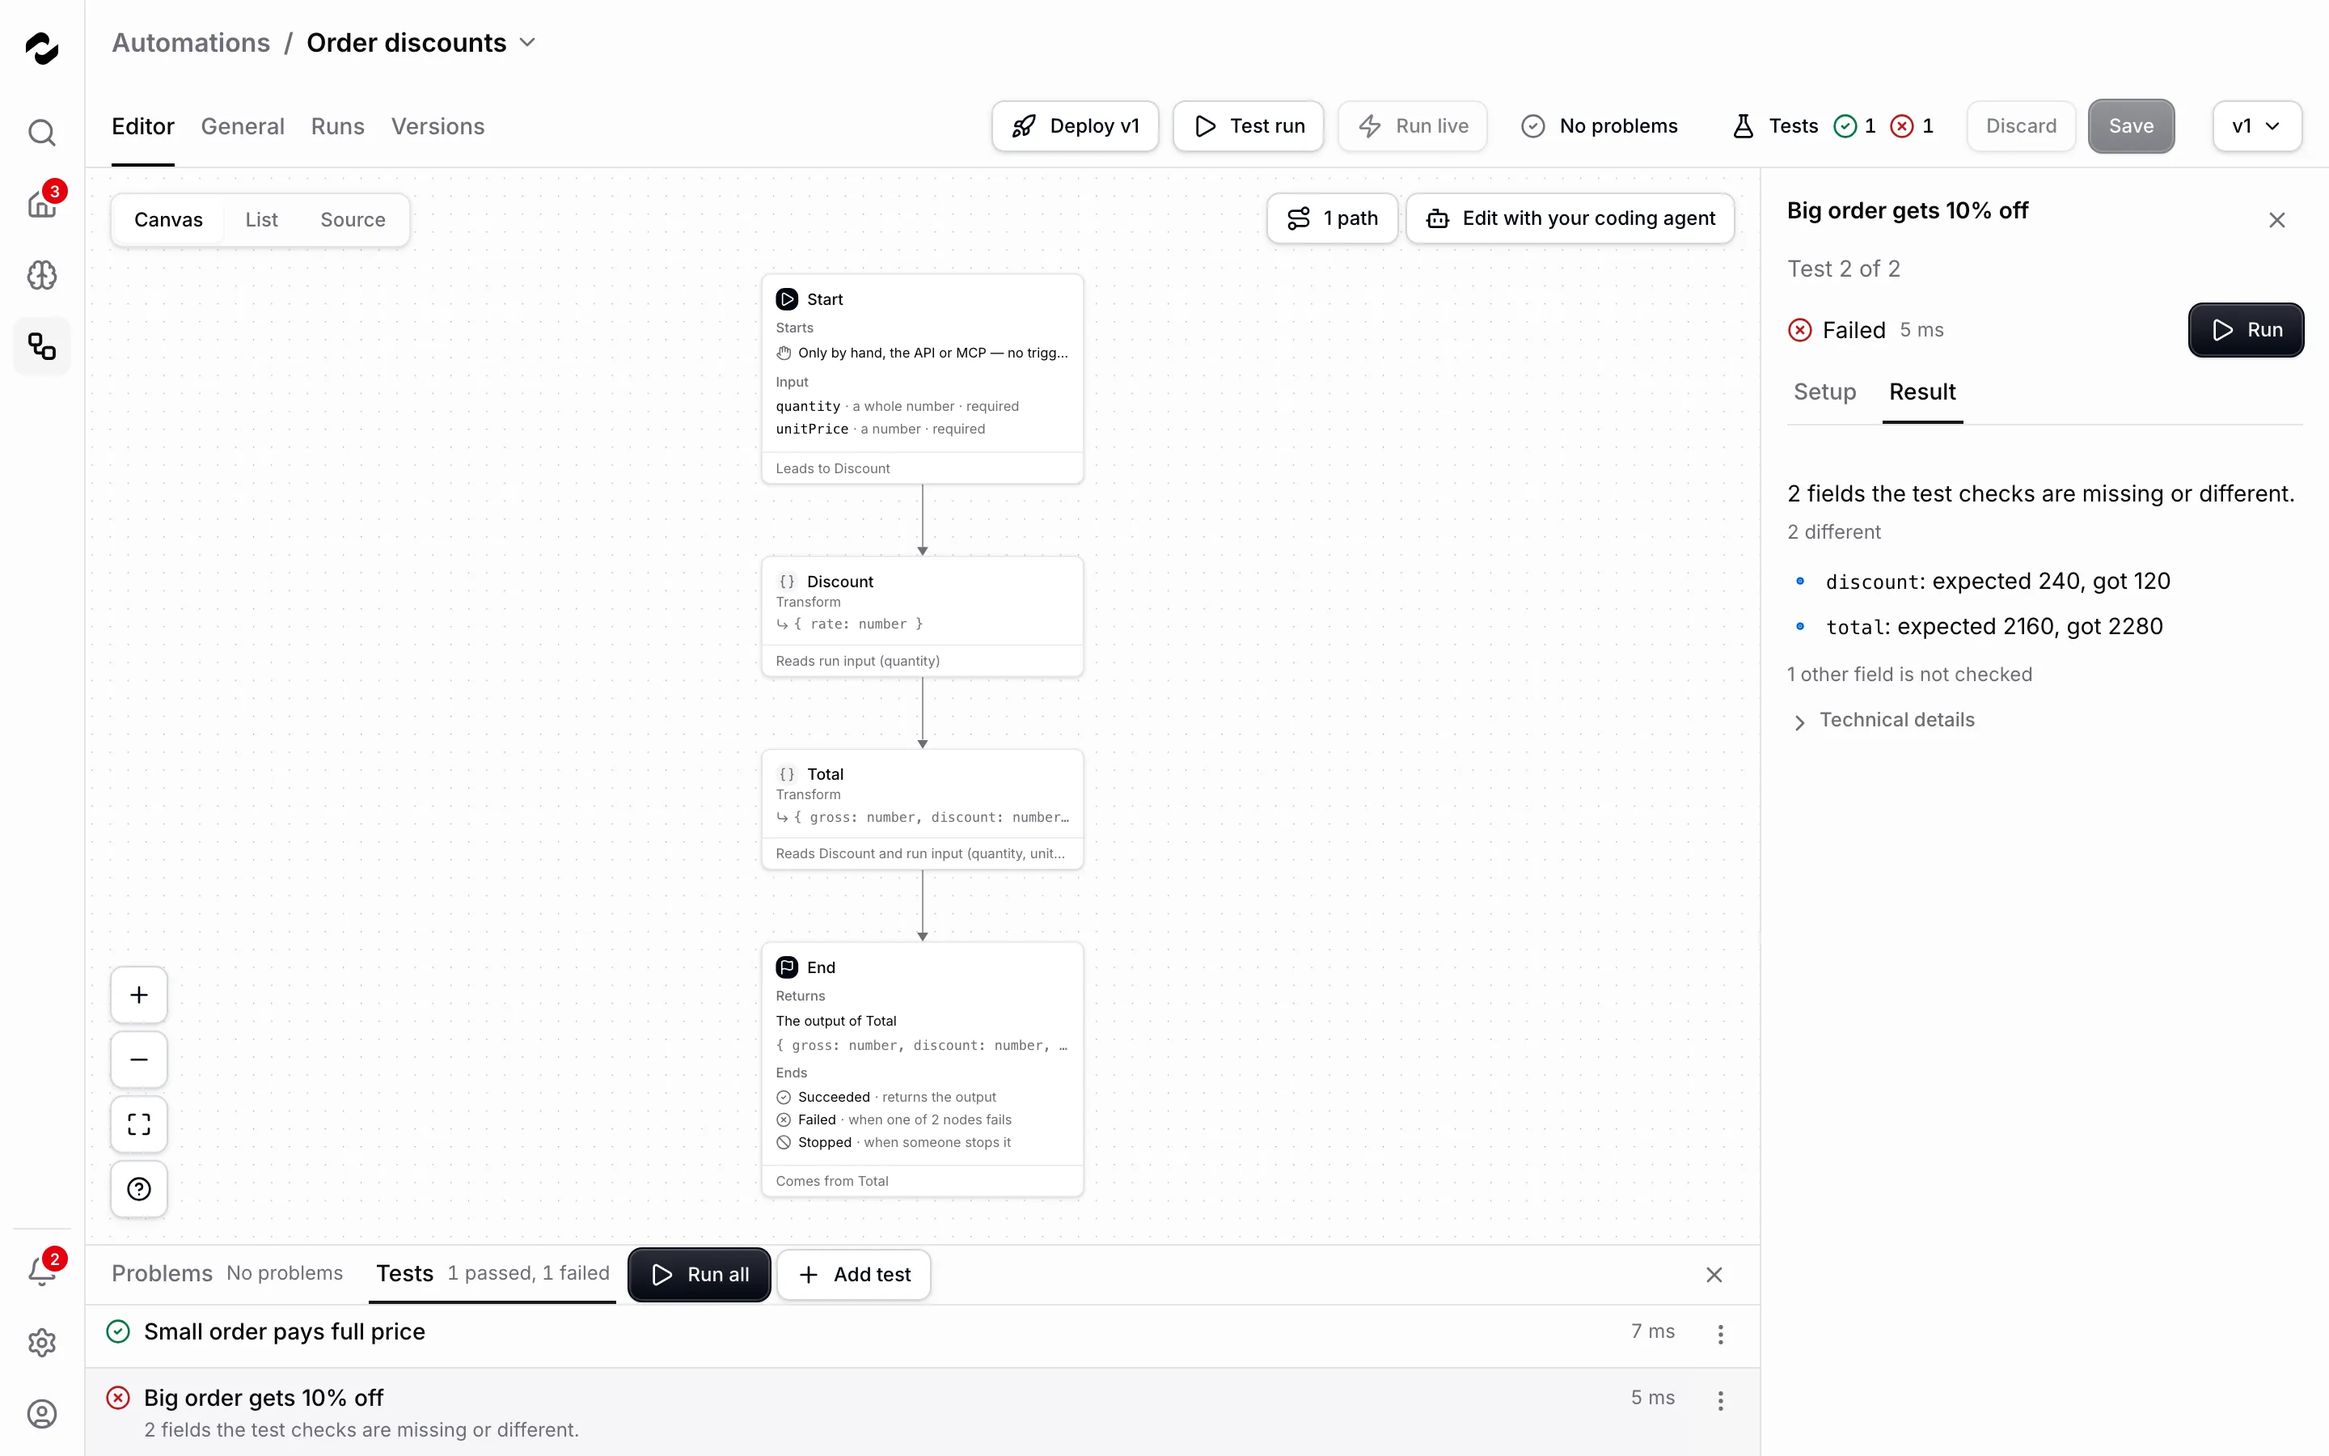
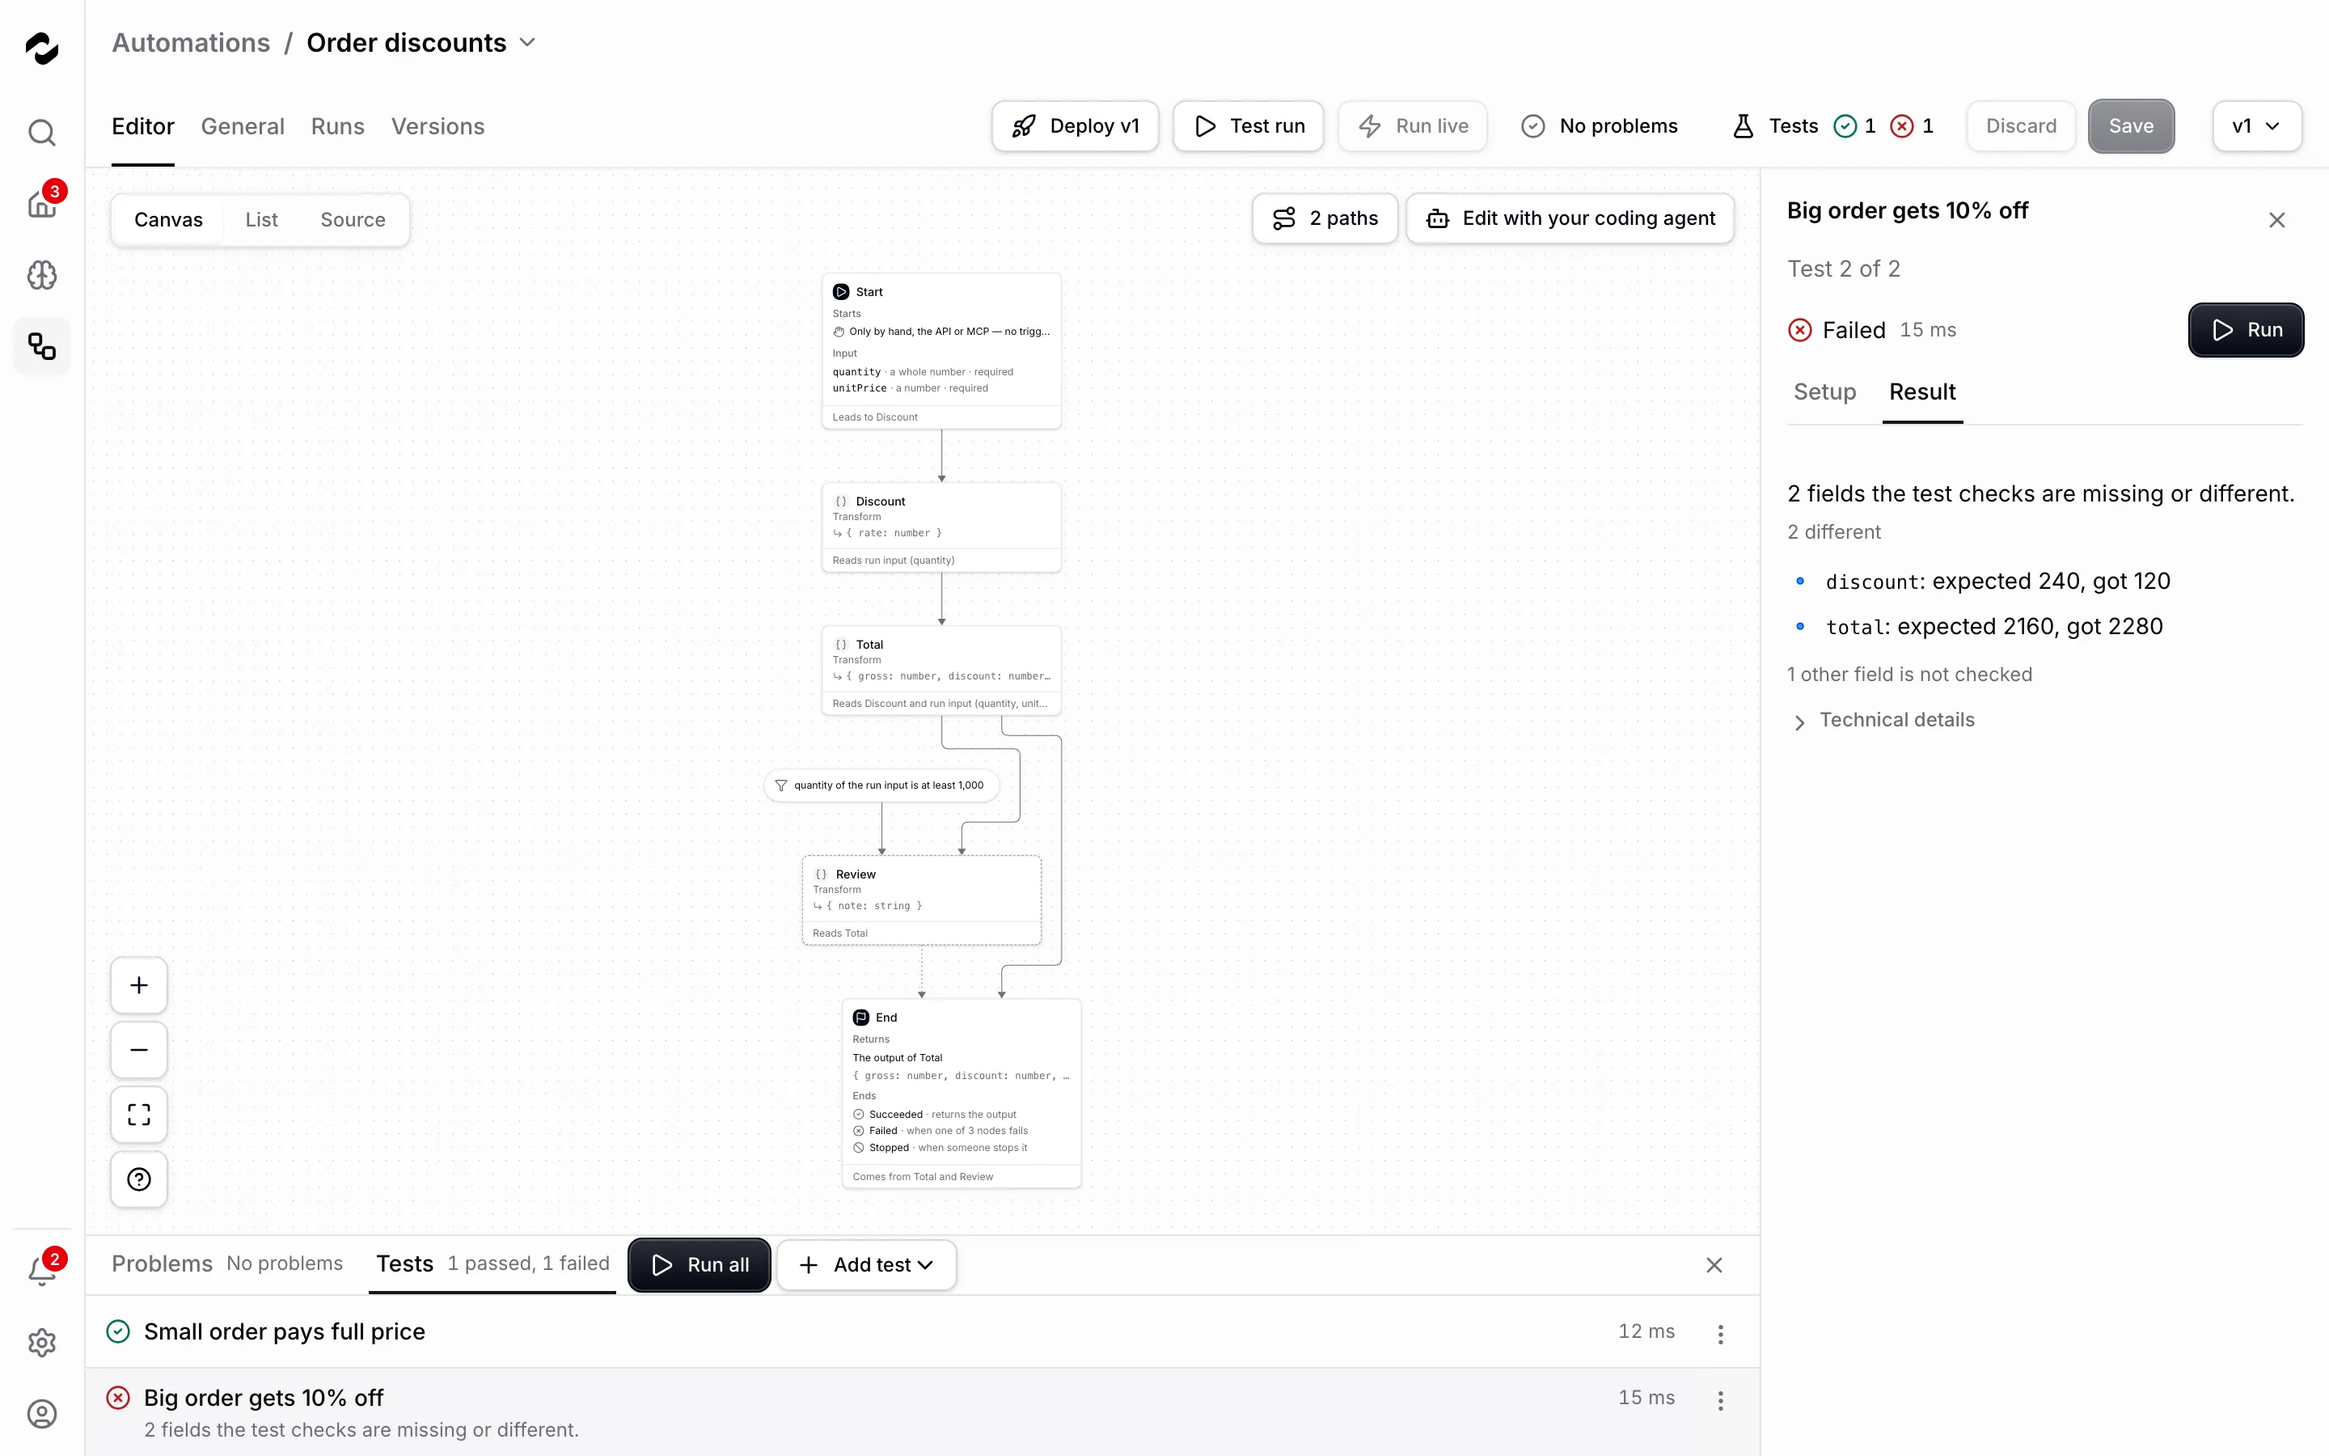
docs(docs): show tests from a path and what the tests cover
The testing page describes Add test's menu and the coverage line, with a new screenshot of the possible paths after Run all. The tests demo gains a Review step for orders of a thousand or more, which neither test reaches, so the shot shows one of two paths covered; the two earlier tests shots are taken again with it.

diff --git a/services/platform/tests/docs-screenshots/manifest.ts b/services/platform/tests/docs-screenshots/manifest.ts
@@ -2344,6 +2344,46 @@ export const SHOTS: readonly Shot[] = [
     viewport: { width: 1440, height: 1100 },
   },
   {
+    // The order discounts' tests after Run all, with the possible paths
+    // open on the canvas: both orders go down the path that skips Review,
+    // which only an order of a thousand or more reaches, so the line above
+    // the tests reads one of two paths covered and the other path untested.
+    name: 'automation-test-coverage',
+    section: 'platform',
+    route: `/dashboard/:orgId/automations/${DEMO_TESTS.automation}/editor?panel=tests`,
+    prepare: async (page) => {
+      await settleAutomationEditor(page);
+      const dock = page.getByRole('region', {
+        name: t('automations.tests.title'),
+        exact: true,
+      });
+      await dock
+        .getByRole('button', { name: t('automations.tests.runAll') })
+        .click();
+      await dock
+        .getByRole('button', {
+          name: new RegExp(
+            `^${escapeRegExp(t('testResults.status.failed'))}: ${escapeRegExp(DEMO_TESTS.failing)}`,
+          ),
+        })
+        .waitFor({ timeout: 30_000 });
+      await page
+        .getByRole('button', {
+          name: pluralPattern(t('automations.paths.button')),
+        })
+        .click();
+    },
+    // A path reads which tests go down it once their results are in.
+    readyWhen: (page) =>
+      page
+        .getByText(
+          new RegExp(
+            `^${escapeRegExp(t('automations.paths.clause.tested').split('{names}')[0] ?? '')}`,
+          ),
+        )
+        .first(),
+  },
+  {
     // A test run of v1 and one of v2 of the weekly digest compared: what
     // differs, with the way to the versions' comparison, and both runs on
     // the steps of both versions — Summarize, which v1 lacks, dashed for A.

diff --git a/services/platform/tests/docs-screenshots/demo-content.ts b/services/platform/tests/docs-screenshots/demo-content.ts
@@ -633,8 +633,10 @@ output: '{{ nodes.digest.output }}'
  * The testing page's demo: a small automation that works out an order's
  * volume discount, with two tests. The small order's passes; the big
  * order's expects 10 % off where the code gives 5 %, so the Tests panel
- * shows one test failing with what it expected and what it got.
- * Transforms only — it answers the same on every stack.
+ * shows one test failing with what it expected and what it got. Review
+ * runs only for an order of a thousand or more, which neither test places,
+ * so the tests cover one of its two paths. Transforms only — it answers
+ * the same on every stack.
  */
 export const DEMO_TESTS = {
   automation: 'order-discounts',
@@ -668,6 +670,13 @@ export const DEMO_TESTS = {
           rate: '{{ nodes.discount.output.rate }}',
         },
         code: 'const gross = input.quantity * input.unitPrice;\nreturn { gross, discount: gross * input.rate, total: gross * (1 - input.rate) };',
+      },
+      {
+        id: 'review',
+        type: 'transform',
+        when: '{{ input.quantity >= 1000 }}',
+        input: { total: '{{ nodes.total.output.total }}' },
+        code: "return { note: 'Wholesale order of ' + input.total + ': sales confirms the price' };",
       },
     ],
     output: '{{ nodes.total.output }}',

diff --git a/docs/fr/platform/automations/testing.md b/docs/fr/platform/automations/testing.md
@@ -19,7 +19,7 @@ Chaque ligne est un test, dans l’ordre du document : son statut, son nom et, 
 
 ## Ajouter un test
 
-1. Dans l’onglet **Tests**, sélectionne **Ajouter un test**. Un test nommé **Nouveau test** s’ouvre à côté du canevas, avec un espace réservé pour chaque champ que l’entrée de l’exécution exige.
+1. Dans l’onglet **Tests**, sélectionne **Ajouter un test**, puis **Test vide** si un menu s’ouvre. Un test nommé **Nouveau test** s’ouvre à côté du canevas, avec un espace réservé pour chaque champ que l’entrée de l’exécution exige.
 2. Dans **Configuration**, remplis le test : son **Nom**, l’**Entrée** que reçoit l’exécution en JSON, les **Sorties simulées** et les **Échecs simulés** qui remplacent des étapes, et sous **Attentes** ce que l’exécution doit faire. Tes modifications passent dans le brouillon au fil de la saisie.
 3. Enregistre le brouillon pour garder le test. L’enregistrement exécute tous les tests et consigne le résultat avec la version.
 
@@ -49,6 +49,20 @@ expect:
 - `mocks` donne à une étape une sortie à utiliser au lieu d’appeler son service ou son modèle, et `failures` fait échouer une étape avec le message indiqué.
 
 Sans `expect`, un test réussit quand l’exécution réussit. Le menu d’une ligne copie aussi un test avec **Dupliquer** ou le retire avec **Supprimer** ; **Abandonner** fait revenir un test supprimé tant que tu n’as pas enregistré.
+
+### Partir du déclencheur ou d’un chemin
+
+Quand l’automatisation offre plus d’un point de départ, **Ajouter un test** ouvre un menu. **Test vide** ajoute le test décrit plus haut. **À partir de l’entrée du déclencheur** commence avec l’entrée que le déclencheur lié donne à une exécution : une planification qui se déclenche à un moment fixe, la livraison d’exemple d’un webhook ou l’exemple d’un événement, si bien que le test reçoit la même entrée à chaque exécution. **Pour un chemin non testé** liste les chemins possibles qu’aucun test ne suit encore, dans les mots de la [liste des chemins](/fr/platform/automations/editor#paths) ; une fois que chaque chemin en a un, le menu indique **Chaque chemin a un test** à la place. Le nouveau test simule chaque échec dont le chemin a besoin et attend l’état de chaque étape sur ce chemin ; sa description dit quelles conditions l’entrée doit rendre vraies ou fausses.
+
+### Voir ce que les tests couvrent
+
+Une fois des tests exécutés, la ligne au-dessus de la liste indique combien des chemins possibles de l’automatisation ils suivent, par exemple **Couvre 1 chemin sur 2**. Sélectionne-la pour ouvrir la liste des chemins, où chaque chemin indique **Testé par** avec les tests qui le suivent, ou **Non testé**. Un test couvre le chemin que son exécution a réellement pris, qui n’est pas toujours celui pour lequel il a été écrit.
+
+<Frame caption="Tout exécuter sur les remises de commande : les deux tests sautent l’étape Review, donc le chemin où elle s’exécute n’a pas encore de test.">
+
+![L’éditeur d’Order discounts après Run all, avec Possible paths ouvert à côté du canevas : Path 1, où Review s’exécute, est Not tested, et Path 2, où Review est ignorée, est Tested by Small order pays full price and Big order gets 10% off. Sous le canevas, l’onglet Tests indique Covers 1 of 2 paths.](/images/platform/automation-test-coverage.webp)
+
+</Frame>
 
 ## Exécuter les tests
 

diff --git a/docs/de/platform/automations/testing.md b/docs/de/platform/automations/testing.md
@@ -19,7 +19,7 @@ Jede Zeile ist ein Test, in der Reihenfolge des Dokuments: sein Status, sein Nam
 
 ## Einen Test hinzufügen
 
-1. Wähle im Tab **Tests** die Option **Test hinzufügen**. Neben dem Canvas öffnet sich ein Test namens **Neuer Test**, mit einem Platzhalter für jedes Feld, das die Eingabe des Laufs verlangt.
+1. Wähle im Tab **Tests** die Option **Test hinzufügen** und, falls sich ein Menü öffnet, **Leerer Test**. Neben dem Canvas öffnet sich ein Test namens **Neuer Test**, mit einem Platzhalter für jedes Feld, das die Eingabe des Laufs verlangt.
 2. Füll den Test unter **Einrichtung** aus: **Name**, die **Eingabe**, die der Lauf als JSON erhält, unter **Simulierte Ausgaben** und **Simulierte Fehler** die Schritte, für die der Test einspringt, und unter **Erwartungen**, was der Lauf tun muss. Deine Änderungen gehen beim Tippen in den Entwurf ein.
 3. Speichere den Entwurf, um den Test zu behalten. Beim Speichern laufen alle Tests, und die Version behält das Ergebnis.
 
@@ -49,6 +49,20 @@ expect:
 - `mocks` gibt einem Schritt eine Ausgabe, die er verwendet, statt seinen Dienst oder sein Modell aufzurufen, und `failures` lässt einen Schritt mit der angegebenen Meldung fehlschlagen.
 
 Ohne `expect` besteht ein Test, wenn der Lauf erfolgreich ist. Im Menü einer Zeile kopierst du einen Test mit **Duplizieren** oder entfernst ihn mit **Löschen**; **Verwerfen** holt einen gelöschten Test zurück, solange du nicht gespeichert hast.
+
+### Vom Trigger oder einem Pfad ausgehen
+
+Gibt es mehr, wovon ein Test ausgehen kann, öffnet **Test hinzufügen** ein Menü. **Leerer Test** fügt den oben beschriebenen Test hinzu. **Aus der Eingabe des Triggers** beginnt mit der Eingabe, die der gebundene Trigger einem Lauf übergibt: ein Zeitplan, der zu einem festen Zeitpunkt auslöst, die Beispielzustellung eines Webhooks oder das Beispiel eines Ereignisses – so erhält der Test bei jedem Lauf dieselbe Eingabe. **Für einen ungetesteten Pfad** listet die möglichen Pfade, die noch kein Test nimmt, in den Worten der [Pfadliste](/de/platform/automations/editor#paths); hat jeder Pfad einen, steht dort stattdessen **Jeder Pfad hat einen Test**. Der neue Test simuliert jeden Fehler, den der Pfad braucht, und erwartet den Zustand jedes Schritts darauf; seine Beschreibung sagt, welche Bedingungen die Eingabe wahr oder falsch machen muss.
+
+### Sehen, was die Tests abdecken
+
+Sobald Tests gelaufen sind, sagt die Zeile über der Liste, wie viele der möglichen Pfade der Automatisierung sie nehmen, etwa **Deckt 1 von 2 Pfaden ab**. Wähle sie, um die Pfadliste zu öffnen; dort steht bei jedem Pfad **Getestet von** mit den Tests, die ihn nehmen, oder **Nicht getestet**. Ein Test deckt den Pfad ab, den sein Lauf tatsächlich genommen hat – das ist nicht immer der, für den er geschrieben wurde.
+
+<Frame caption="Alle ausführen bei den Bestellrabatten: Beide Tests überspringen den Schritt Review, also hat der Pfad, auf dem er läuft, noch keinen Test.">
+
+![Der Editor von Order discounts nach Run all, mit Possible paths neben dem Canvas: Path 1, in dem Review läuft, ist Not tested, und Path 2, in dem Review übersprungen wird, ist Tested by Small order pays full price and Big order gets 10% off. Unter dem Canvas zeigt der Tab Tests Covers 1 of 2 paths.](/images/platform/automation-test-coverage.webp)
+
+</Frame>
 
 ## Die Tests ausführen
 

diff --git a/docs/en/platform/automations/testing.md b/docs/en/platform/automations/testing.md
@@ -19,7 +19,7 @@ Each row is one test, in the order the document lists them: its status, its name
 
 ## Add a test
 
-1. In the **Tests** tab, select **Add test**. A test named **New test** opens beside the canvas, with a placeholder for each field the run input requires.
+1. In the **Tests** tab, select **Add test**, and **Blank test** if it opens a menu. A test named **New test** opens beside the canvas, with a placeholder for each field the run input requires.
 2. In **Setup**, fill in the test: its **Name**, the **Input** the run receives as JSON, the **Simulated outputs** and **Simulated failures** that stand in for steps, and under **Expectations** what the run must do. Your changes go into the draft as you type.
 3. Save the draft to keep the test. Saving runs every test and records the result with the version.
 
@@ -49,6 +49,20 @@ expect:
 - `mocks` gives a step an output to use instead of calling its service or model, and `failures` makes a step fail with the given message.
 
 Without `expect`, a test passes when the run succeeds. A row's menu also copies a test with **Duplicate** or removes it with **Delete**; **Discard** brings back a deleted test until you save.
+
+### Start from the trigger or a path
+
+When the automation has more to start from, **Add test** opens a menu. **Blank test** adds the test described above. **From the trigger's input** starts with the input the bound trigger hands a run: a schedule firing at a fixed moment, a webhook's sample delivery or an event's example, so the test gets the same input every time it runs. **For an untested path** lists the possible paths no test goes down yet, as the [Paths list](/platform/automations/editor#paths) words them; once every path has one, the menu says **Every path has a test** instead. The new test simulates each failure the path needs and expects each step's state on it; its description says which conditions the input must make true or false.
+
+### See what the tests cover
+
+Once tests have run, the line above the list says how many of the automation's possible paths they go down, such as **Covers 1 of 2 paths**. Select it to open the Paths list, where each path reads **Tested by** with the tests that go down it, or **Not tested**. A test covers the path its run actually took, which is not always the one it was written for.
+
+<Frame caption="Run all on the order discounts: both tests skip Review, so the path where it runs has no test yet.">
+
+![The editor of Order discounts after Run all, with Possible paths open beside the canvas: Path 1, where Review runs, is Not tested, and Path 2, where Review is skipped, is Tested by Small order pays full price and Big order gets 10% off. Under the canvas, the Tests tab reads Covers 1 of 2 paths.](/images/platform/automation-test-coverage.webp)
+
+</Frame>
 
 ## Run the tests
 
